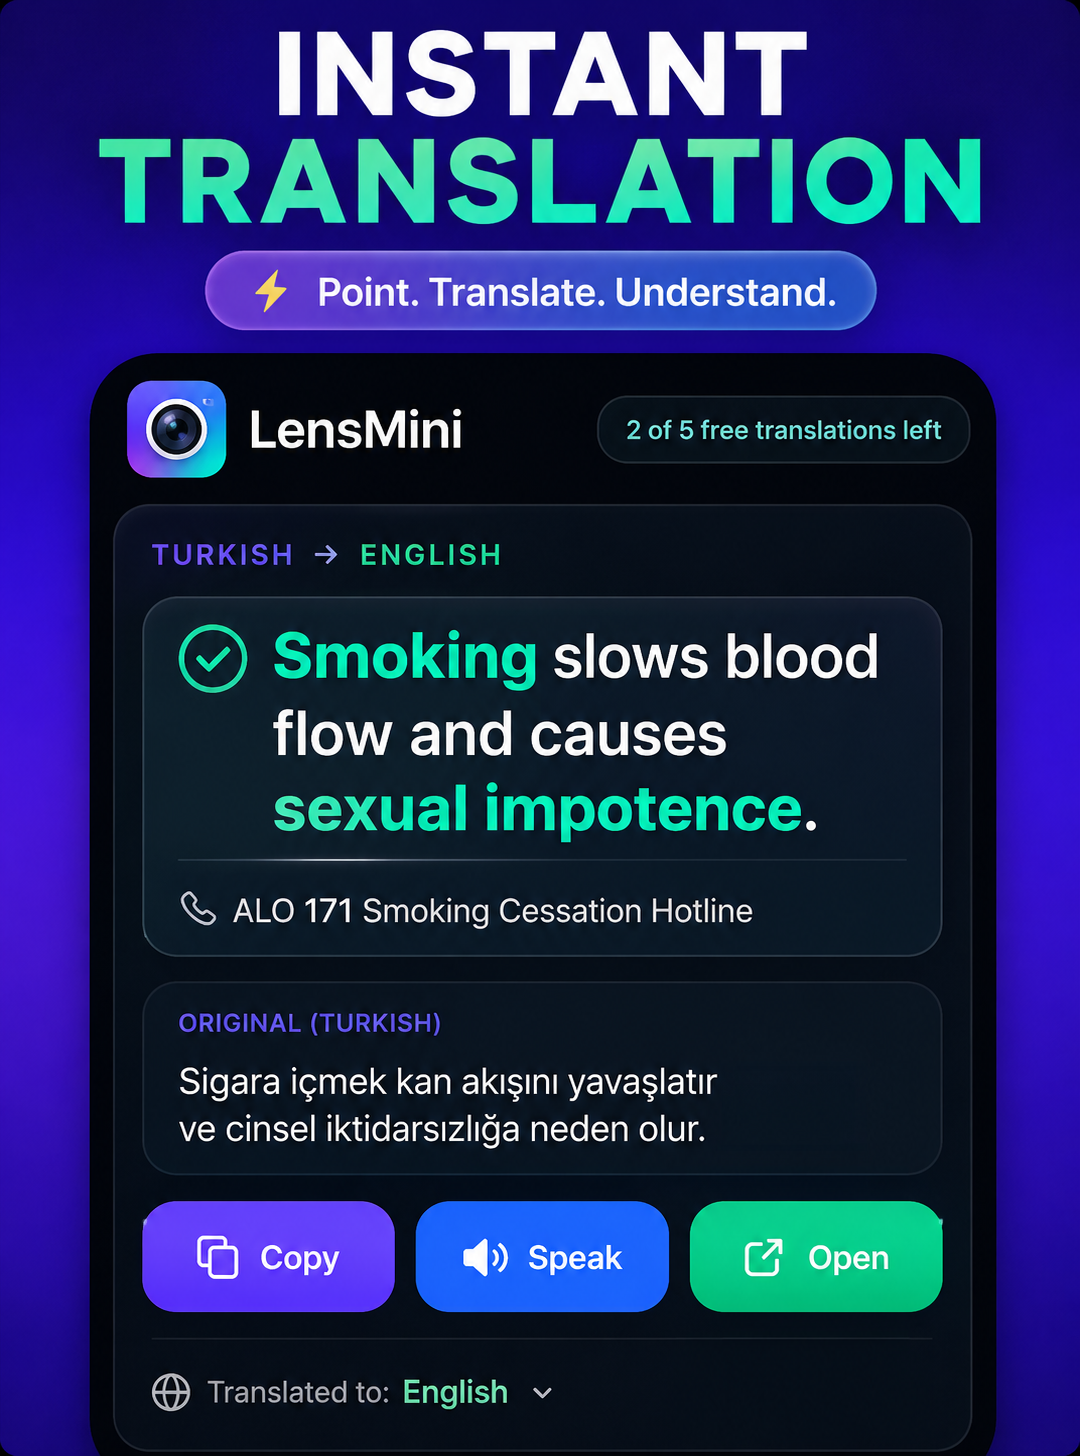
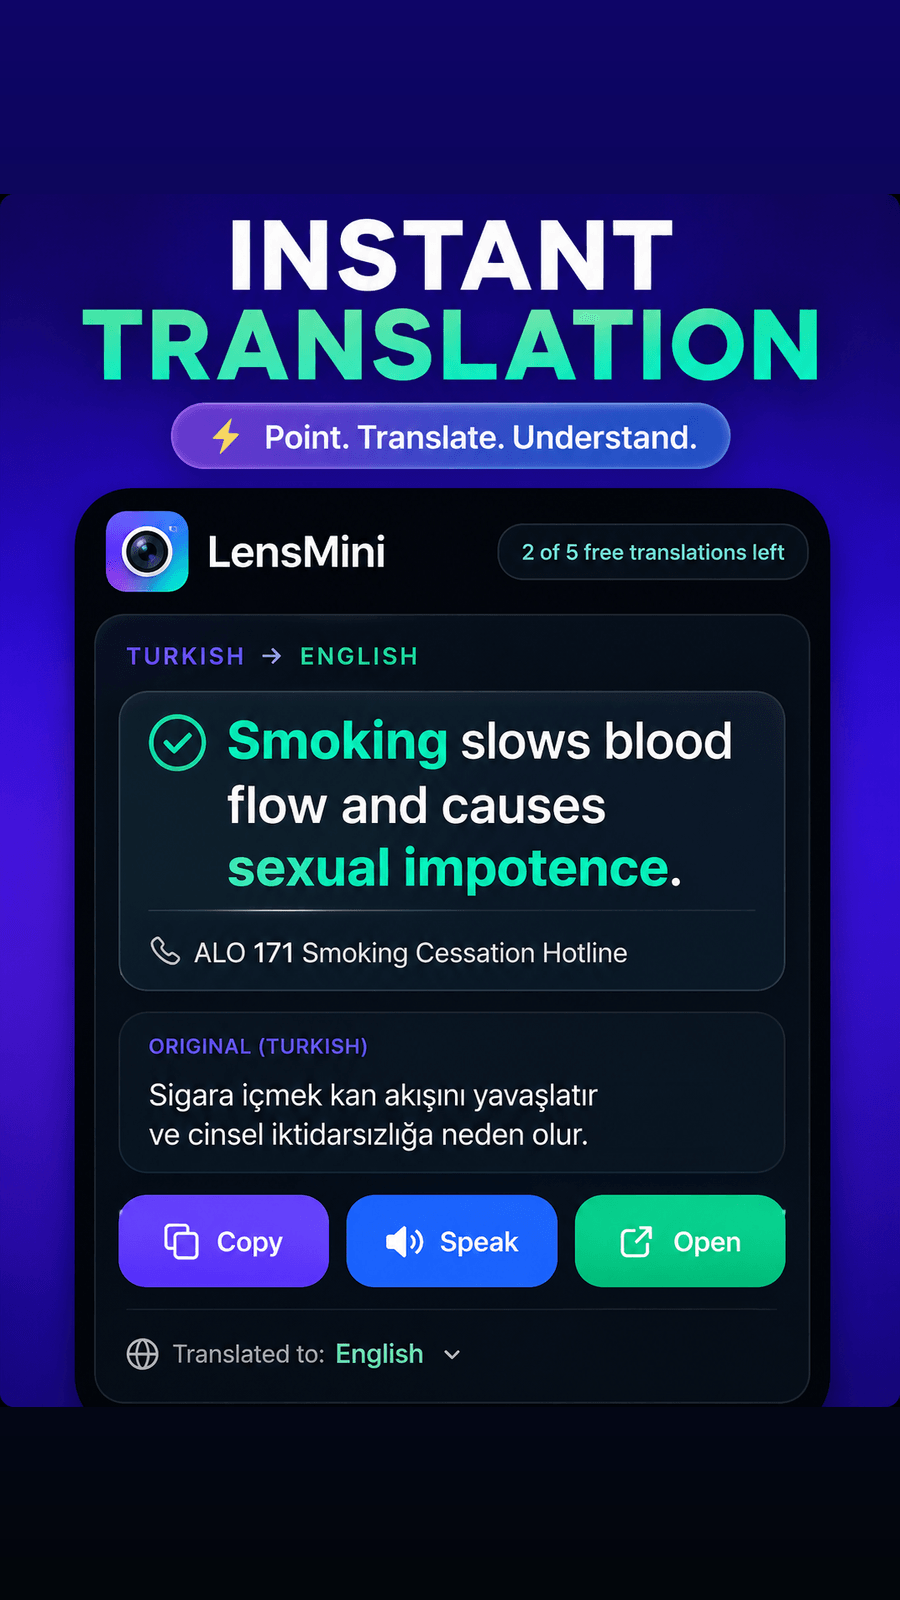
Prepare LensMini FindMini assets.

diff --git a/tooling/scripts/prepare-lensmini-listing.ts b/tooling/scripts/prepare-lensmini-listing.ts
@@ -1,0 +1,125 @@
+import { createRequire } from "node:module";
+import { readdirSync, renameSync, statSync, unlinkSync } from "node:fs";
+import { dirname, join } from "node:path";
+import { fileURLToPath, pathToFileURL } from "node:url";
+
+const root = join(dirname(fileURLToPath(import.meta.url)), "../..");
+const listingDir = join(root, "apps/lensmini/public/listing");
+const MAX_BYTES = 1024 * 1024;
+
+function loadSharp(): typeof import("sharp") {
+  const pnpm = join(root, "node_modules/.pnpm");
+  const match = readdirSync(pnpm).find((name) => name.startsWith("sharp@"));
+  if (!match) {
+    throw new Error("sharp is not installed in the workspace");
+  }
+  const pkg = join(pnpm, match, "node_modules/sharp/package.json");
+  return createRequire(pathToFileURL(pkg).href)("sharp") as typeof import("sharp");
+}
+
+const sharp = loadSharp();
+
+type Rgb = { r: number; g: number; b: number };
+
+async function sampleEdge(file: string, position: "top" | "bottom"): Promise<Rgb> {
+  const { width = 1, height = 1 } = await sharp(file).metadata();
+  const y = position === "top" ? 0 : Math.max(0, height - 1);
+  const { data } = await sharp(file)
+    .extract({ left: Math.floor(width / 2), top: y, width: 1, height: 1 })
+    .removeAlpha()
+    .raw()
+    .toBuffer({ resolveWithObject: true });
+  return { r: data[0] ?? 7, g: data[1] ?? 6, b: data[2] ?? 15 };
+}
+
+function mix(a: Rgb, b: Rgb, t: number): Rgb {
+  return {
+    r: Math.round(a.r + (b.r - a.r) * t),
+    g: Math.round(a.g + (b.g - a.g) * t),
+    b: Math.round(a.b + (b.b - a.b) * t),
+  };
+}
+
+async function canvas(width: number, height: number, top: Rgb, bottom: Rgb) {
+  const raw = Buffer.alloc(width * height * 3);
+  for (let y = 0; y < height; y += 1) {
+    const color = mix(top, bottom, height === 1 ? 0 : y / (height - 1));
+    for (let x = 0; x < width; x += 1) {
+      const i = (y * width + x) * 3;
+      raw[i] = color.r;
+      raw[i + 1] = color.g;
+      raw[i + 2] = color.b;
+    }
+  }
+  return sharp(raw, { raw: { width, height, channels: 3 } }).png();
+}
+
+async function writeUnderLimit(pipeline: import("sharp").Sharp, dest: string): Promise<void> {
+  const tmp = `${dest}.tmp`;
+  const attempts: import("sharp").PngOptions[] = [
+    { compressionLevel: 9, effort: 10, adaptiveFiltering: true },
+    { compressionLevel: 9, effort: 10, palette: true, colours: 256, dither: 1 },
+  ];
+  try {
+    for (const options of attempts) {
+      await pipeline.clone().png(options).toFile(tmp);
+      if (statSync(tmp).size < MAX_BYTES) {
+        renameSync(tmp, dest);
+        return;
+      }
+    }
+    throw new Error(`${dest} could not be compressed under 1MB`);
+  } finally {
+    try {
+      unlinkSync(tmp);
+    } catch {
+      // already renamed or never created
+    }
+  }
+}
+
+async function fitScreenshot(name: string) {
+  const src = join(listingDir, name);
+  const width = 900;
+  const height = 1600;
+  const [top, bottom] = await Promise.all([sampleEdge(src, "top"), sampleEdge(src, "bottom")]);
+  const fitted = await sharp(src)
+    .resize(width, height, { fit: "inside", withoutEnlargement: false })
+    .png()
+    .toBuffer();
+  const bg = await canvas(width, height, top, bottom);
+  await writeUnderLimit(bg.composite([{ input: fitted, gravity: "centre" }]), src);
+}
+
+async function fitIcon() {
+  const src = join(listingDir, "icon.png");
+  await writeUnderLimit(
+    sharp(src).resize(512, 512, {
+      fit: "contain",
+      background: { r: 7, g: 6, b: 15, alpha: 1 },
+      withoutEnlargement: false,
+    }),
+    src,
+  );
+}
+
+async function report(name: string) {
+  const file = join(listingDir, name);
+  const meta = await sharp(file).metadata();
+  const size = statSync(file).size;
+  console.log(
+    `${name}\t${meta.width}x${meta.height}\t${size} bytes\t${(size / 1024 / 1024).toFixed(3)} MB`,
+  );
+}
+
+async function main() {
+  await fitIcon();
+  for (const name of ["screenshot-1.png", "screenshot-2.png", "screenshot-3.png"] as const) {
+    await fitScreenshot(name);
+  }
+  for (const name of ["icon.png", "screenshot-1.png", "screenshot-2.png", "screenshot-3.png"]) {
+    await report(name);
+  }
+}
+
+void main();
